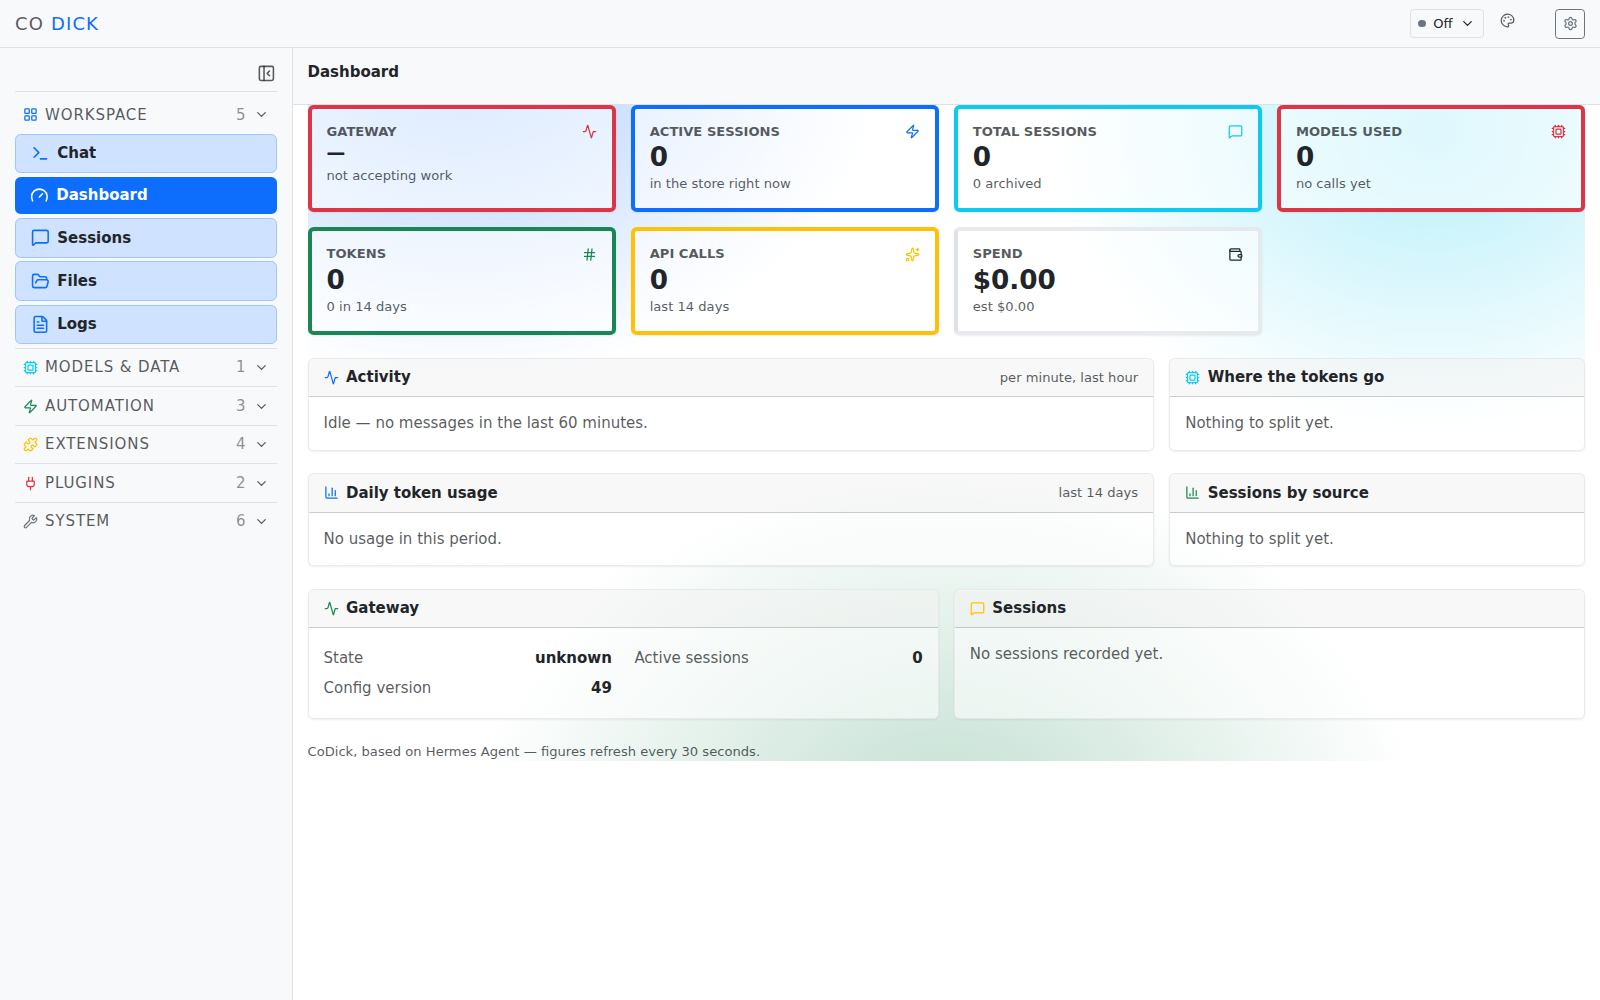
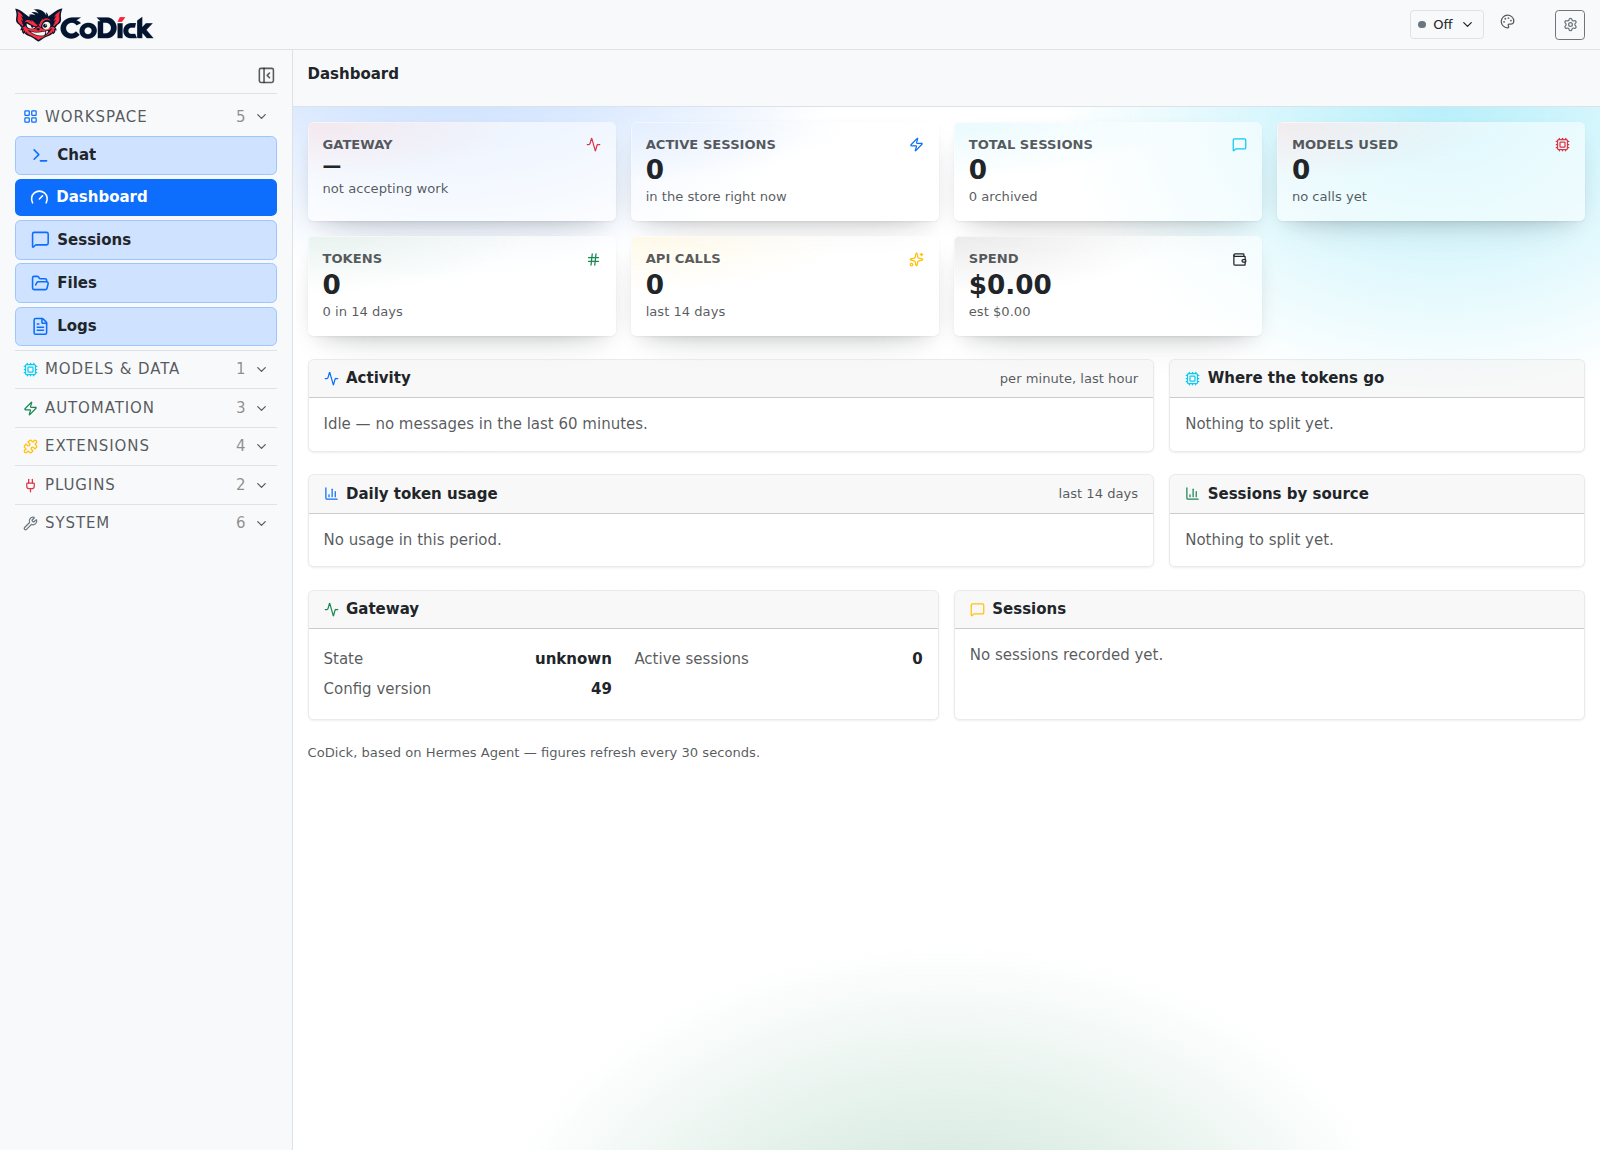
docs: the new README, with covers and a real screenshot of the dashboard
The roadmap sections had illustrations but the one section claiming a
working dashboard had none, which left the only shipped thing in this
repository as the only thing shown without evidence.

The four covers are WebP. As PNG they came to 8.9MB for images a README
renders at about 800px wide; WebP at the same visual quality is 640K, and
the lettering on the fox still has clean edges — checked, not assumed.

The logo is the higher-resolution original, resampled to 1200px, which is
what a 420px README image needs on a 2x display with margin to spare.

Two links pointed at the fork rather than at this repository: the sentence
naming where the work lands, and the invitation to open an issue. A reader
who arrived here and followed the second would have filed a bug against the
archive.

diff --git a/README.md b/README.md
@@ -2,127 +2,125 @@
   <img src="assets/codick-logo.png" alt="CoDick" width="420">
 </p>
 
+<h1 align="center">CoDick</h1>
+
+<p align="center"><strong>Wake servers. Command workers. Deploy workflows.</strong></p>
+
 <p align="center">
-  <b>A web dashboard for Hermes Agent, rebuilt on Bootstrap 5.</b>
+  An independent, community-built interface for <a href="https://github.com/NousResearch/hermes-agent">Hermes Agent</a>.
+  Today: a Bootstrap-powered dashboard. Next: a server fleet, visual pipelines, and an open marketplace of deployable agent workflows.
 </p>
 
 <p align="center">
-  <a href="LICENSE"><img src="https://img.shields.io/badge/License-MIT-green?style=flat-square" alt="License: MIT"></a>
-  <a href="https://github.com/NousResearch/hermes-agent"><img src="https://img.shields.io/badge/Agent%20by-Nous%20Research-blueviolet?style=flat-square" alt="Agent by Nous Research"></a>
-  <a href="https://hermes-agent.nousresearch.com/docs/"><img src="https://img.shields.io/badge/Docs-upstream-FFD700?style=flat-square" alt="Documentation"></a>
-  <img src="https://img.shields.io/badge/UI-Bootstrap%205.3-7952b3?style=flat-square" alt="Bootstrap 5.3">
+  <a href="#what-works-today">What works</a> ·
+  <a href="#the-roadmap">Roadmap</a> ·
+  <a href="#agent-marketplace-preview">Marketplace preview</a> ·
+  <a href="#join-the-build">Join the build</a>
 </p>
 
----
+<p align="center">
+  <a href="LICENSE"><img src="https://img.shields.io/badge/License-MIT-182235?style=flat-square" alt="MIT license"></a>
+  <a href="#what-works-today"><img src="https://img.shields.io/badge/Now-Bootstrap%20dashboard-7952B3?style=flat-square" alt="Bootstrap dashboard available"></a>
+  <a href="#the-roadmap"><img src="https://img.shields.io/badge/Next-Fleet%20%2B%20Workflows-FF344C?style=flat-square" alt="Fleet and workflows planned"></a>
+</p>
 
-> ### Not an official Nous Research product
->
-> CoDick is an independent project built on
-> [Hermes Agent](https://github.com/NousResearch/hermes-agent) by
-> [Nous Research](https://nousresearch.com). It is not affiliated with, endorsed
-> by, or supported by Nous Research.
->
-> The agent — CLI, gateway, TUI, tools — is upstream's and is used unmodified.
-> **This repository's work is the web interface.** The upstream `LICENSE`, MIT
-> `Copyright (c) 2025 Nous Research`, is retained byte for byte, as the licence
-> requires.
->
-> Bugs, security reports and support for the *agent* belong
-> [upstream](https://github.com/NousResearch/hermes-agent/issues).
+> **Independent project.** CoDick is built on Hermes Agent by Nous Research. It is not an official Nous Research product and is not affiliated with, endorsed by, or supported by Nous Research. The upstream MIT license and its copyright notice are retained. See [Credits and license](#credits-and-license).
 
-<img src="assets/codick-dashboard.png" alt="The CoDick dashboard" width="100%">
+## What works today
 
-## What this project is
+![The CoDick dashboard](assets/codick-dashboard.png)
 
-Hermes Agent ships a web dashboard. CoDick replaces that interface — not a
-reskin of it, a rebuild. Tailwind and the previous component library are
-**removed**, not reconfigured, and every surface, control and colour comes from
-Bootstrap's own palette.
+**The web dashboard has been migrated to Bootstrap 5.3.** This is the current implemented scope of CoDick. The existing Hermes agent, gateway, CLI, tools, and execution model remain upstream. Fleet enrollment, one-click server setup, the workflow builder, and the marketplace described below are **planned**, not shipped features.
 
-| | |
-|---|---|
-| **Dashboard at `/`** | Gateway state, sessions, models, tokens, spend, per-minute activity and token composition on one screen |
-| **A shell that is only navigation** | Grouped, collapsible sections; identity, status and settings in one strip across the top |
-| **Light by default** | Bootstrap's own light mode, set explicitly so the user's `prefers-color-scheme` cannot decide it |
-| **Charts in SVG** | Reading Bootstrap's variables, so they follow the colour mode instead of importing a chart library's |
+The current dashboard work includes a rebuilt navigation shell, Bootstrap-based components and color modes, an overview of gateway and session activity, and SVG charts backed by existing Hermes APIs. The UI is developed in `web/`; the Python backend serves its built assets from `hermes_cli/web_dist`.
 
-Everything on the dashboard is read from an API that already existed — the
-status poll, the session stats, the usage analytics — settled independently, so
-one failing endpoint leaves a partial dashboard rather than a blank page. The
-per-minute track is bucketed from session timestamps: an idle system draws a
-flat line and says so, rather than showing a plausible curve.
+This repository is where that work lands. The public fork that carries its full commit history remains at [martinroot/hermes-multiserver-web-bootstrap](https://github.com/martinroot/hermes-multiserver-web-bootstrap). Expect changes while the interface settles.
 
-The Bootstrap migration that produced this was carried out on a fork, which
-stays public so the progression of that work remains visible:
-[martinroot/hermes-multiserver-web-bootstrap](https://github.com/martinroot/hermes-multiserver-web-bootstrap).
+## The roadmap
 
-## Running it
+The intended path is deliberately simple for the user: **connect a server → wake it → assemble a workflow → watch agents work**.
 
-The agent is installed and updated exactly as upstream documents — CoDick does
-not replace the installer, and the CLI is still `hermes`:
+| Stage | Status | Intended experience |
+| --- | --- | --- |
+| Bootstrap dashboard | **Available now** | A clearer web surface for managing a Hermes installation. |
+| Easy WakeUP | **Planned** | Add a server, establish SSH access, set up the runtime, and bring the node online from a guided flow. |
+| Server Fleet & Workers | **Planned** | See multiple servers, their agents, health, capacity, and activity in one place. |
+| Kanban Pipelines | **Planned** | Build reusable multi-step workflows with dependencies, reviews, retries, artifacts, and human checkpoints. |
+| Agent Marketplace | **Exploration** | Discover, inspect, install, run, and eventually publish portable agent workflows. |
 
-```bash
-curl -fsSL https://hermes-agent.nousresearch.com/install.sh | bash
-```
+These are product directions, not release dates or commitments. Each stage needs a working end-to-end demo before it is marked available.
 
-Then, from a checkout of this repository:
+### Easy WakeUP
 
-```bash
-hermes dashboard
-```
+![Easy WakeUP concept](assets/covers/easy-wakeup.webp)
 
-The interface is built from `web/`; the backend serves the built assets from
-`hermes_cli/web_dist`. To work on the interface itself:
+The goal: turn a clean server into a connected Hermes worker through a guided flow. SSH is the enrollment path; the long-running fleet connection and credentials model still need design and implementation. The first demo should prove the whole journey from a fresh machine to a visible, healthy node.
+
+### Server Fleet & Workers
+
+![Server Fleet and Workers concept](assets/covers/server-fleet-workers.webp)
+
+One operator view across machines: which nodes are online, which profiles and workers they host, what each worker is doing, and where intervention is needed. A fleet view is useful only when actions and results are actually tied to the correct server.
+
+### Kanban Pipelines
+
+![Kanban Pipelines concept](assets/covers/kanban-pipelines.webp)
+
+The ambition is a Trello-like visual layer for serious agent work: stages, assignees, dependencies, review loops, execution history, and deliverables. Hermes already has a [Kanban task model](https://hermes-agent.nousresearch.com/docs/user-guide/features/kanban); CoDick aims to make complex workflows easier to assemble and operate, including across a future fleet.
+
+## Agent marketplace preview
+
+![Agent Marketplace concept](assets/covers/agent-marketplace.webp)
+
+**Don't hire a chatbot. Deploy a workflow.**
+
+The marketplace idea is to share *reproducible outcomes*: the required inputs and access, the steps and agent roles, the models and tools, the approval points, and the artifacts a user should receive. A listing should tell you what it does, what it may change, and what it takes to run. Marketplace installation, publishing, payments, and the listings below are **concepts**, not current product capabilities.
+
+| Build & ship | Servers & operations | Creative & documents | Business & research |
+| --- | --- | --- | --- |
+| Web Agency | Nginx WakeUP | PDF Surgeon | Research Desk |
+| Landing Page Sprint | Minecraft over SSH | Brand Designer | Data Parser |
+| UI Redesign | VPN Backend | Product Card Studio | Bookkeeping Assistant |
+| Code Reviewer | Docker Deploy | SEO Workshop | Contract Reviewer |
+| Bug Hunter | Server Doctor | Video Editor | Legal Draft Assistant |
+| API Builder | Backup Guardian | Audio to Text | Auto Diagnostic Guide |
+| Test Engineer | Migration Crew | Image Editor | Customer Concierge |
+| Release Captain | Uptime Watcher | Translation Desk | CRM Cleanup |
+
+**Example: Web Agency** could move from brief and review to design, frontend, backend, QA, and delivery, with a person approving key handoffs. **Minecraft over SSH** could gather server requirements, provision a host, install and configure the game server, run checks, and hand back access and operational notes. These are proposed workflows; the contracts and tests still need to be built.
+
+For legal, accounting, and vehicle diagnostics, the intended role is to organize evidence and prepare drafts or checks for qualified human review, not to make final professional decisions on a user's behalf.
+
+## Build from source
+
+This is a fork of Hermes Agent, not a separate agent runtime. Follow the [upstream development setup](https://hermes-agent.nousresearch.com/docs/developer-guide/contributing) to prepare a working checkout. In that checkout, the web workspace can be built with:
 
 ```bash
 npm install --workspace web
 npm run build --workspace web
 ```
 
-Full agent documentation — providers, channels, skills, scheduled jobs — is
-upstream's, and unchanged:
-[hermes-agent.nousresearch.com/docs](https://hermes-agent.nousresearch.com/docs/).
-
-## About the agent
-
-**Hermes Agent is by [Nous Research](https://nousresearch.com)** — a
-self-improving AI agent with a built-in learning loop: it creates skills from
-experience, improves them during use, searches its own past conversations, and
-builds a deepening model of who you are across sessions. It runs on a $5 VPS, a
-GPU cluster, or serverless infrastructure that costs nearly nothing when idle.
-
-Use any model you want — [Nous Portal](https://portal.nousresearch.com),
-OpenRouter, OpenAI, your own endpoint, and
-[many others](https://hermes-agent.nousresearch.com/docs/integrations/providers).
-Switch with `hermes model`: no code changes, no lock-in.
-
-| | |
-|---|---|
-| **A real terminal interface** | Full TUI with multiline editing, slash-command autocomplete, conversation history, interrupt-and-redirect, streaming tool output |
-| **Lives where you do** | Telegram, Discord, Slack, WhatsApp, Signal and CLI from a single gateway process |
-| **A closed learning loop** | Agent-curated memory with periodic nudges, autonomous skill creation, FTS5 session search with LLM summarisation |
-| **Scheduled automations** | Built-in cron scheduler with delivery to any platform, in natural language |
-| **Delegates and parallelizes** | Spawns isolated subagents for parallel workstreams |
-| **Runs anywhere** | Local, Docker, SSH, Singularity, Modal, Daytona, Vercel Sandbox |
-
-## Project layout
+Then launch `hermes dashboard` from the configured development installation. The [upstream installer](https://hermes-agent.nousresearch.com/docs/getting-started/installation) installs upstream Hermes; running it alone does **not** install CoDick's dashboard changes.
 
 ```
-web/            the interface — React, Vite, Bootstrap 5.3
-hermes_cli/     upstream's Python package; web_server.py serves the built assets
-apps/           upstream's desktop client
-plugins/        upstream's bundled plugins
+web/            React, Vite, Bootstrap dashboard
+hermes_cli/     Hermes Python package and web backend
+apps/           upstream desktop application
+plugins/        upstream bundled plugins
 ```
 
-## Credits
+## Join the build
 
-This project was built on the generosity of
-[OpenRouter](https://openrouter.ai/stealth/space-bunny-alpha): the work above —
-several thousand class replacements, a shell rebuilt, a dashboard written — ran
-on `stealth/space-bunny-alpha` with the unlimited tokens of the *Boost skill day*
-programme. Were that the norm rather than the occasion, the open-source market
-would move a good deal faster.
+Star or watch this repository to follow progress. If you run Hermes on more than one server, share the workflow that hurts most today. Real deployment stories will shape the first fleet demo.
 
-The agent is by [Nous Research](https://nousresearch.com) and remains under its
-original MIT licence, `Copyright (c) 2025 Nous Research`, retained unchanged.
-CoDick's modifications are the work of this repository's contributors.
+Contributions are welcome: dashboard polish, accessibility, onboarding design, fleet protocols, workflow definitions, documentation, and reproducible test cases. Open an [issue](https://github.com/martinroot/codick/issues) with a focused proposal or a small pull request. Please distinguish implemented behavior from roadmap ideas in contributions and screenshots.
+
+The first milestone worth celebrating is concrete: **fresh server → guided enrollment → visible worker → assigned task → observable result**.
+
+## Credits and license
+
+This project was born out of the generosity of [OpenRouter](https://openrouter.ai/stealth/space-bunny-alpha). The work behind it — a large UI migration, done commit by commit — ran on `stealth/space-bunny-alpha` with the unlimited tokens of the Boost skill day programme. Were that the norm rather than the occasion, the open-source market would move a good deal faster.
+
+[Hermes Agent](https://github.com/NousResearch/hermes-agent) is developed by [Nous Research](https://nousresearch.com). Its CLI, gateway, agent tools, and core runtime are the upstream project's work. CoDick's current contribution is the Bootstrap web dashboard; its future fleet and marketplace ideas are independent plans.
+
+The original [MIT license](LICENSE), including `Copyright (c) 2025 Nous Research`, is retained. CoDick modifications are the work of this repository's contributors.
